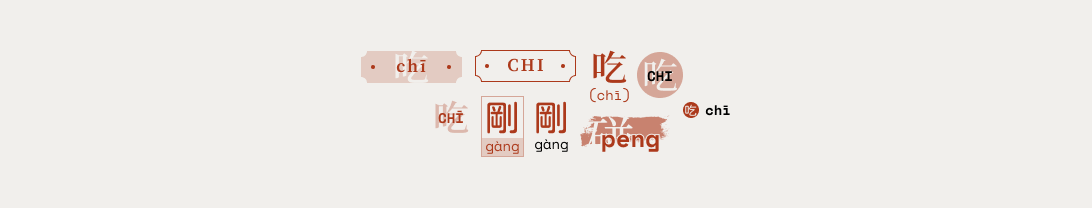
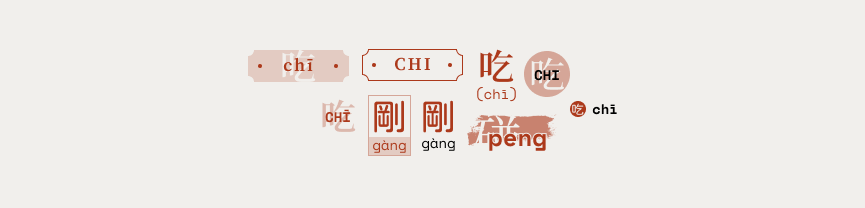
Update images and imageGallery

Changed region(s): [[0.2809, 0.2308, 0.6867, 0.4904], [0.3746, 0.4327, 0.7179, 0.7788]]

diff --git a/_sass/minima/_custom.scss b/_sass/minima/_custom.scss
@@ -1,5 +1,5 @@
 .categoryUpdate + .categoryUpdate {
-  // border-top: 1px grey solid; 
+  // border-top: 1px grey solid;
   margin-top: 1.5em;
 }
 
@@ -8,7 +8,7 @@ a.readMore {
   display: flex;
   justify-content: center;
   font-style: italic;
-  font-size: .8em;
+  font-size: 0.8em;
 }
 
 a.readMore:hover {
@@ -16,9 +16,17 @@ a.readMore:hover {
   font-style: normal;
 }
 
+.imageGallery {
+  display: flex;
+  justify-content: center;
+  overflow: visible;
+}
+
 .imageGallery p {
   display: flex;
   justify-content: center;
+  max-width: 100vw;
+  flex-shrink: 0;
 }
 
 .imageGallery img {
@@ -27,6 +35,7 @@ a.readMore:hover {
   box-flex: 1;
   -webkit-flex: 1 1 auto;
   flex: 1 1 auto;
+  min-width: 0;
 
   padding: 0 2px;
 }
